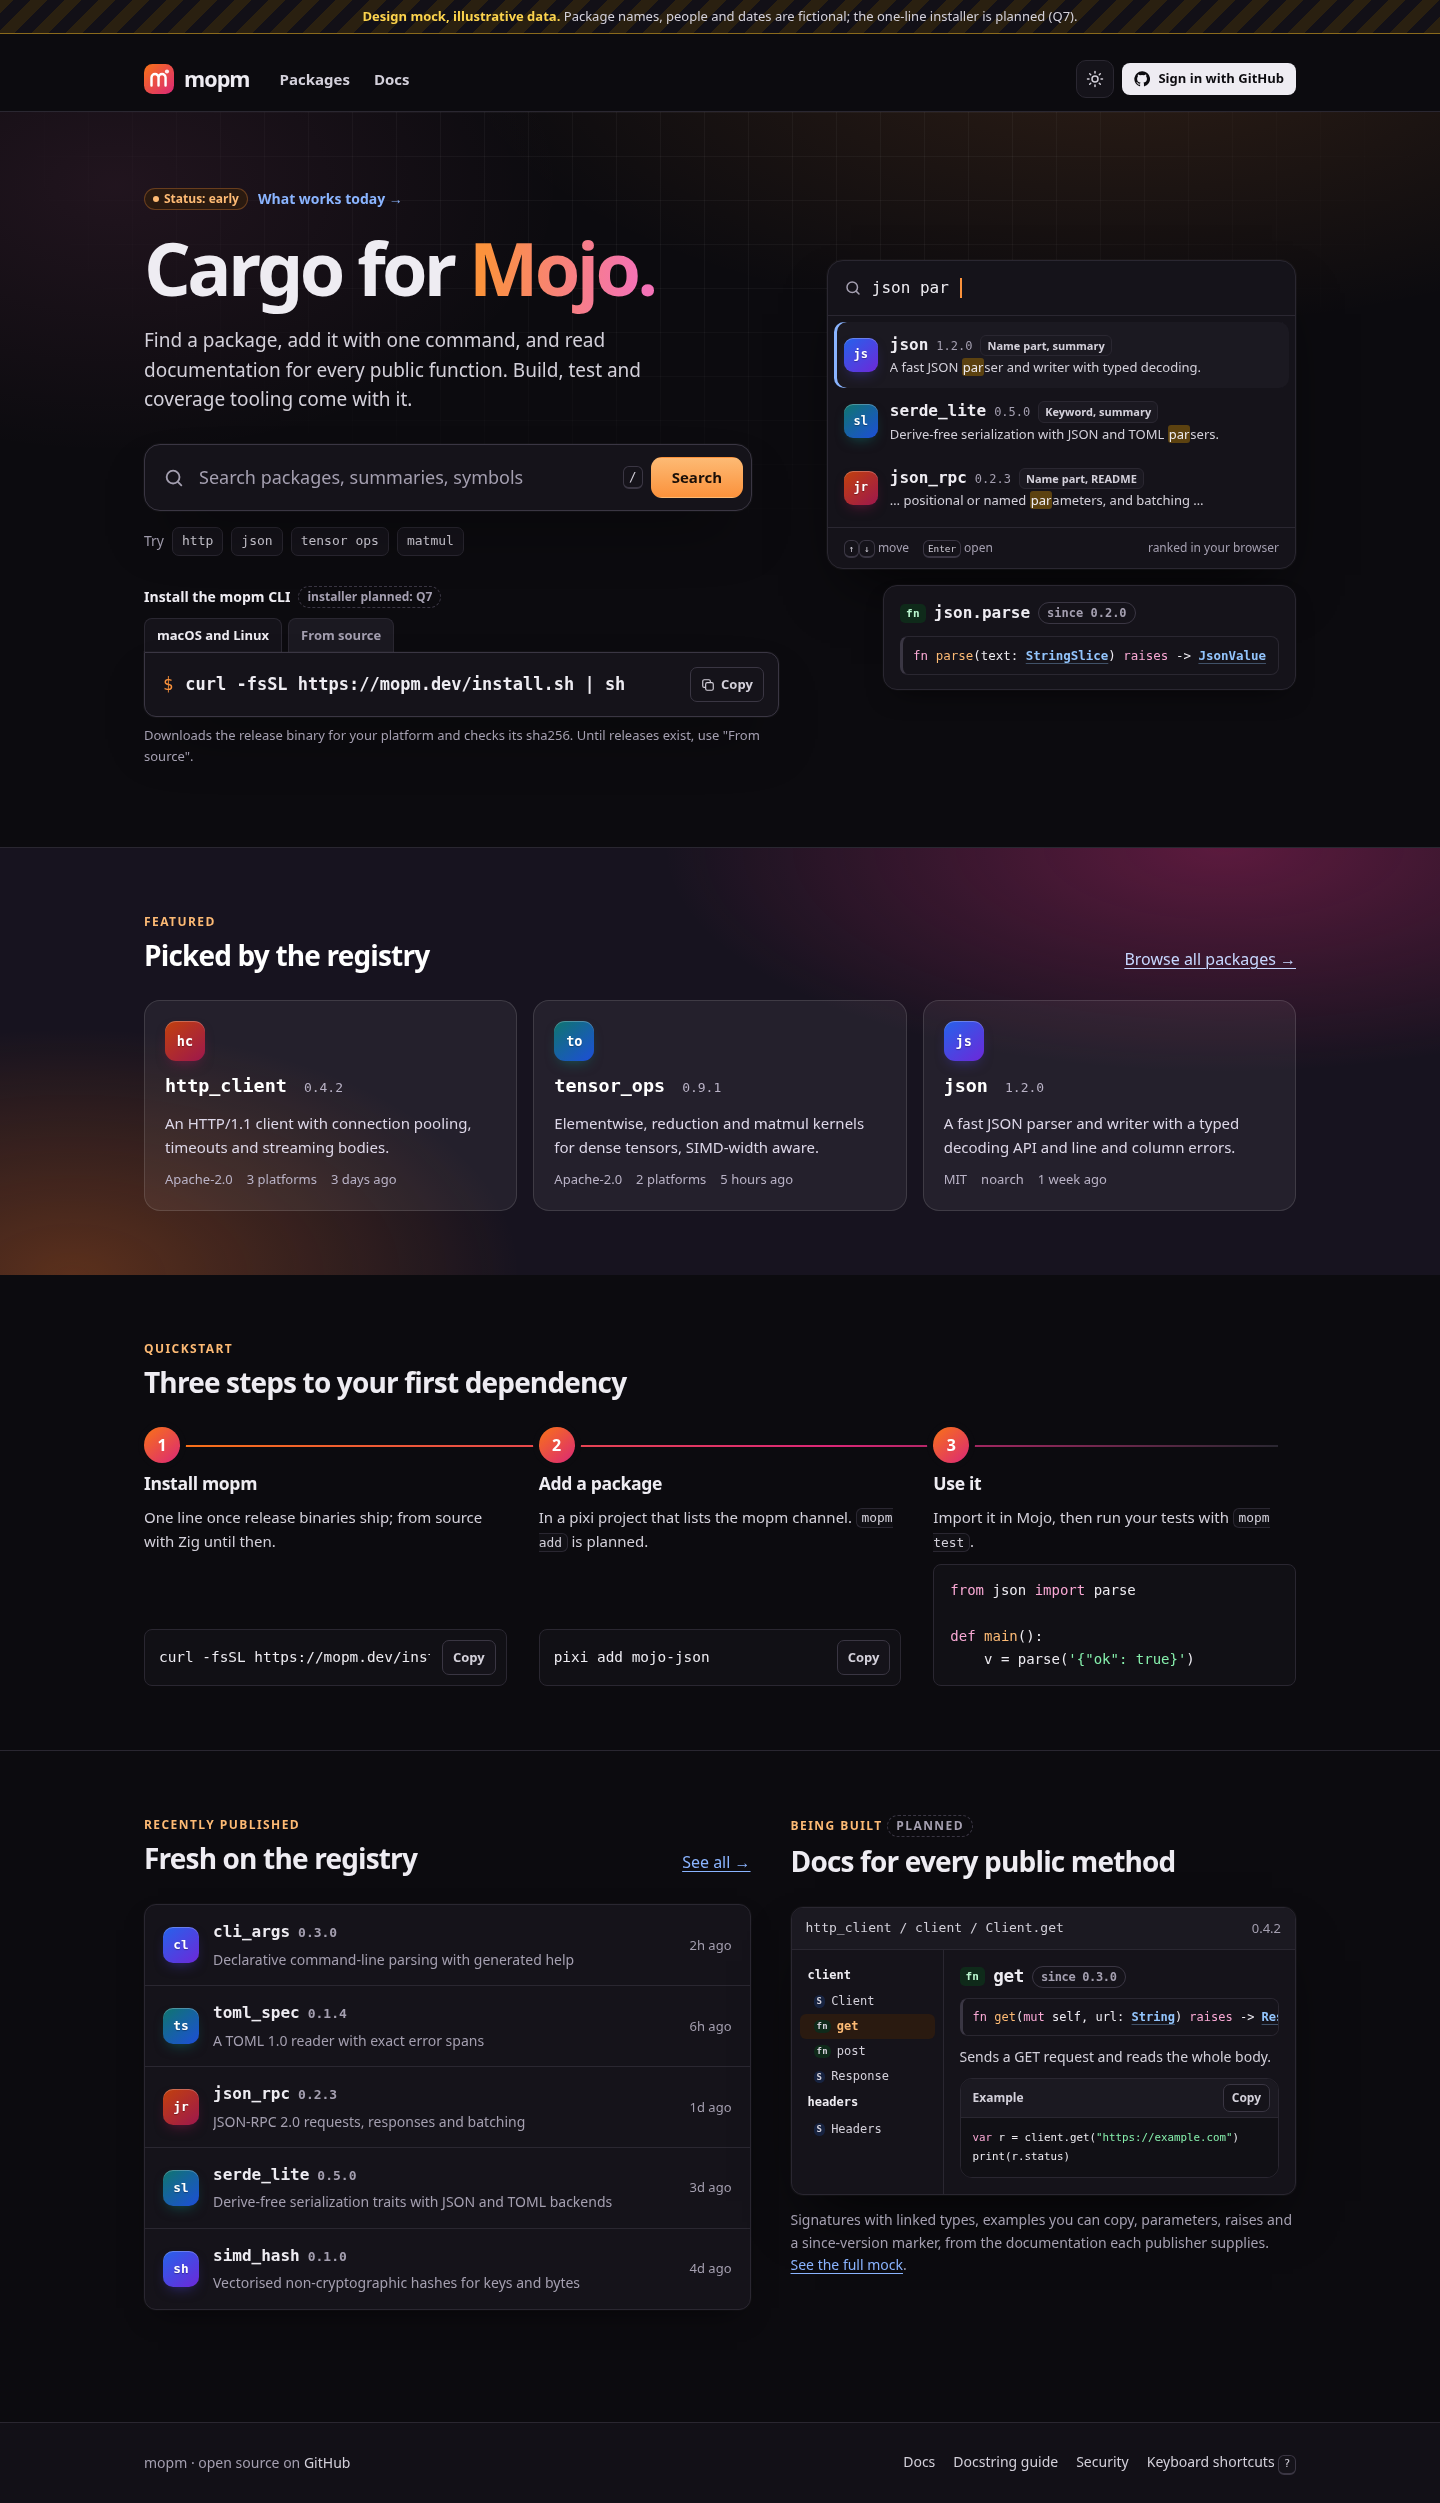
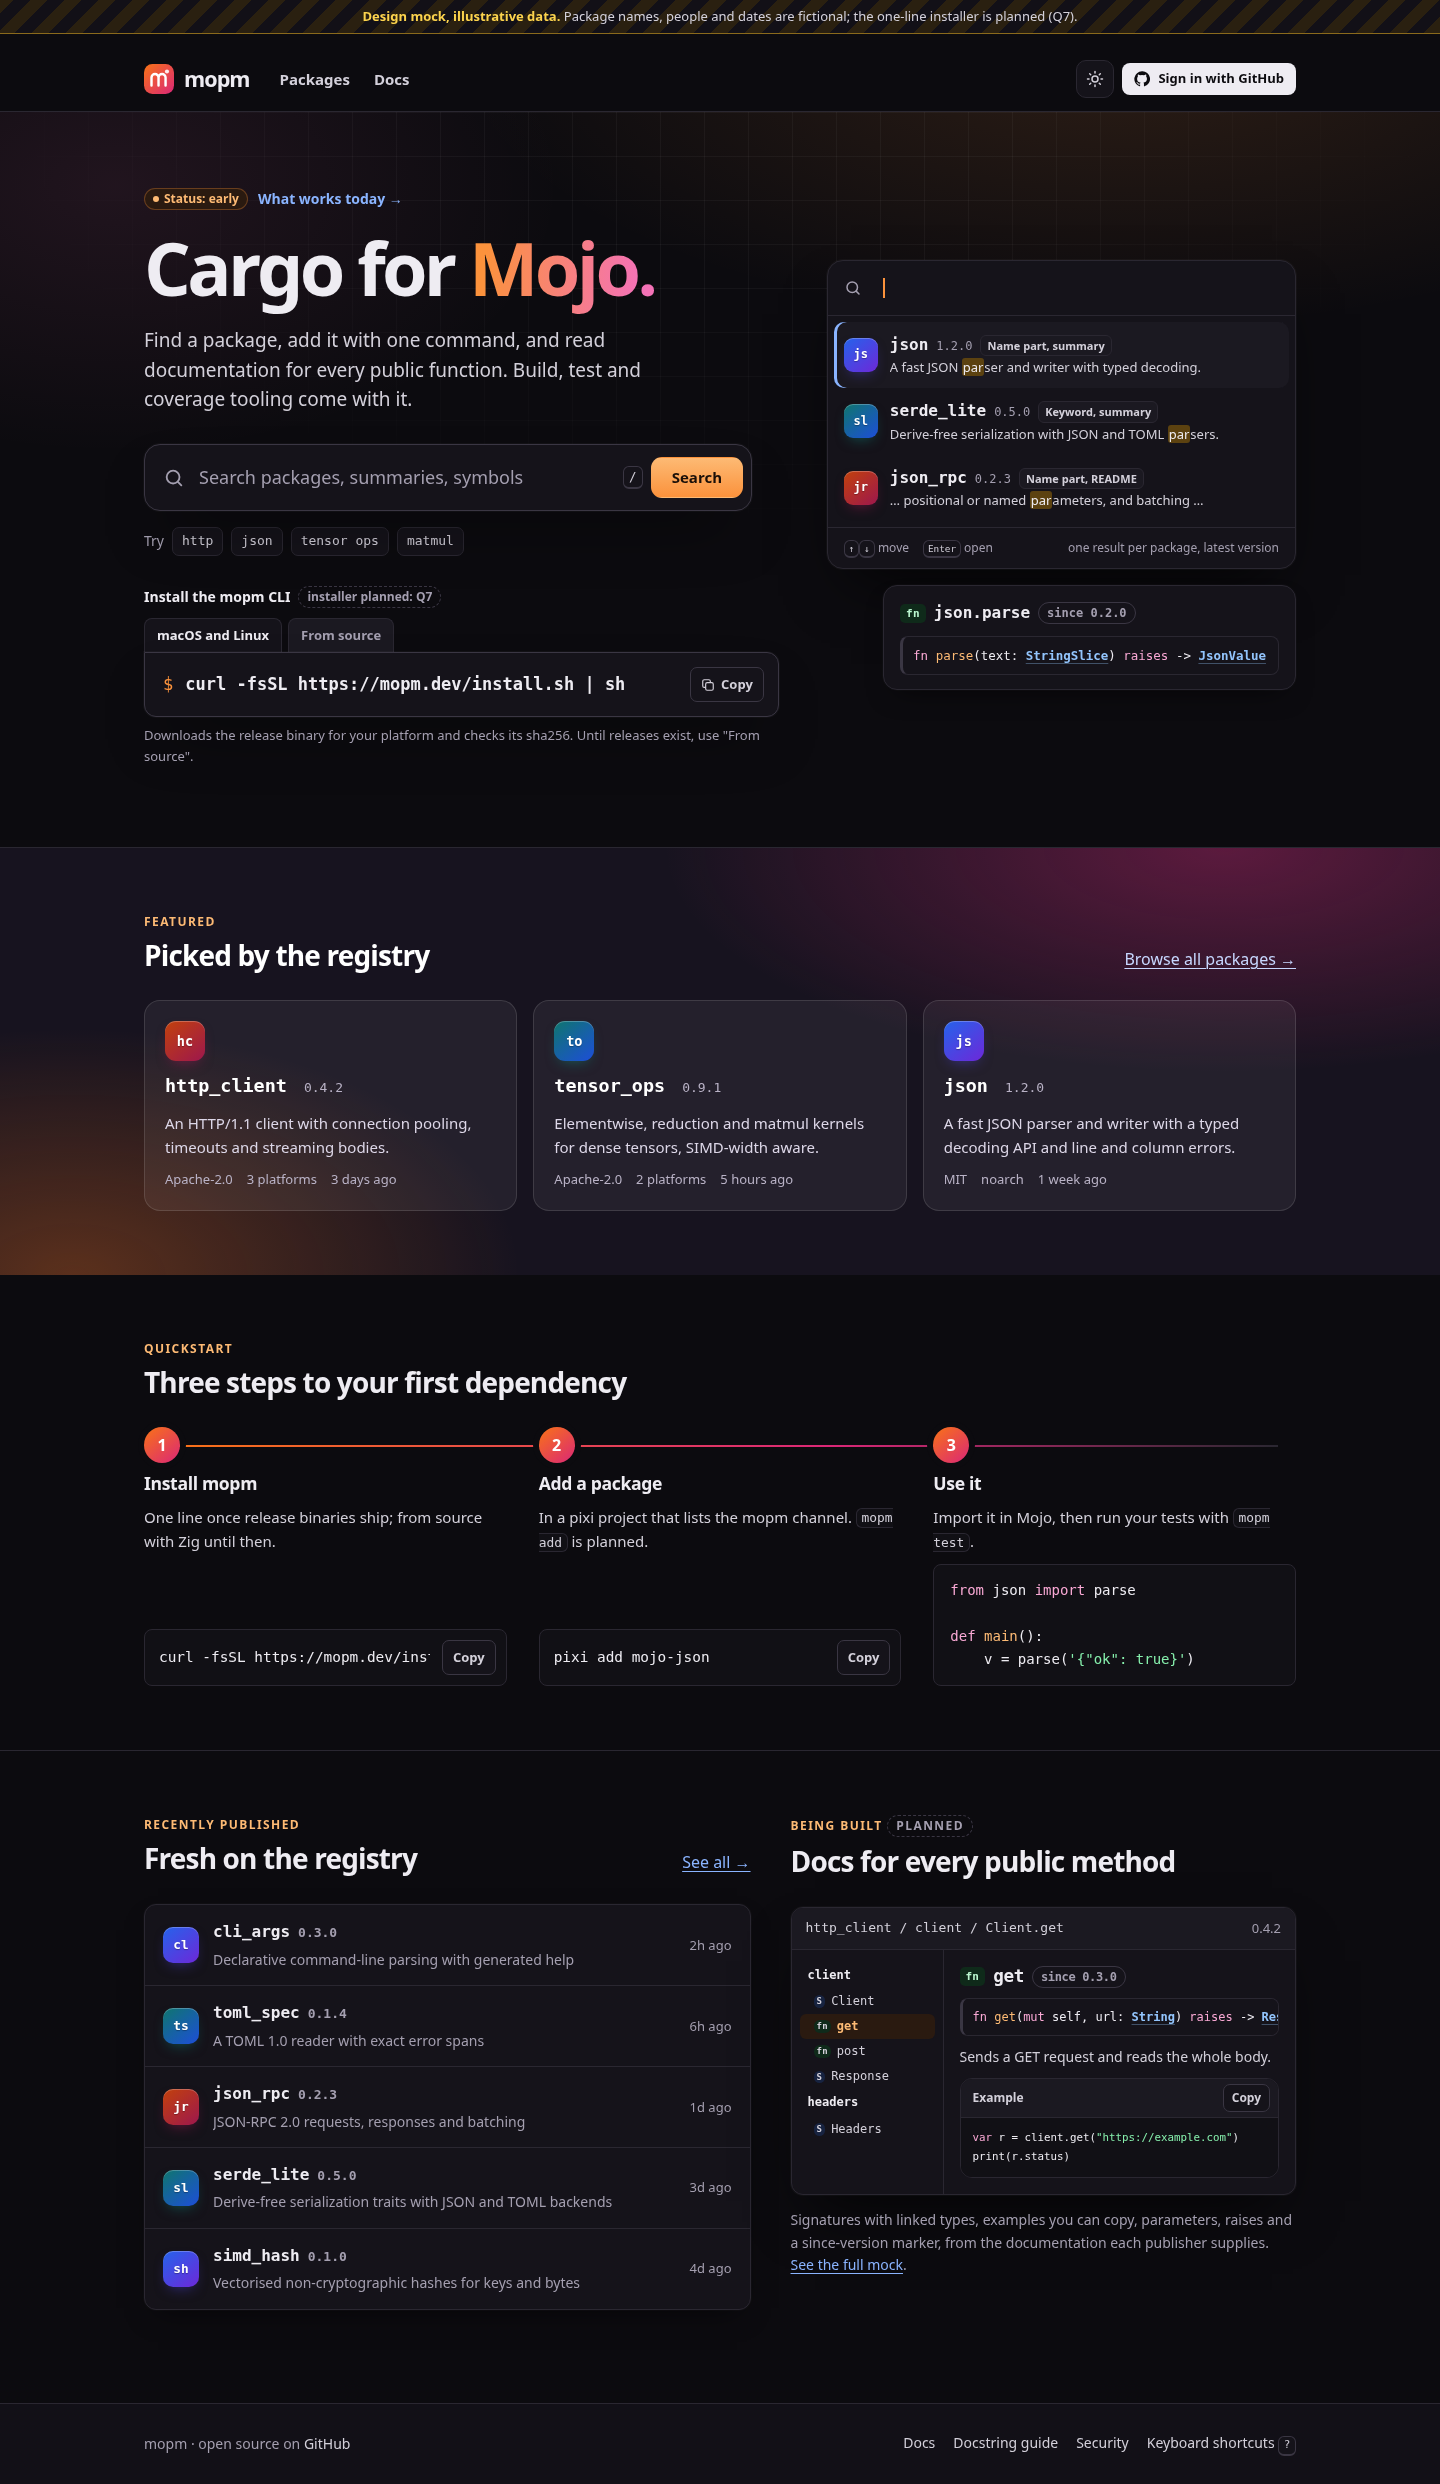
docs/design/mock: the landing search preview says one result per package at its latest version, not ranked in the browser

diff --git a/docs/design/mock/index-dark.html b/docs/design/mock/index-dark.html
@@ -111,7 +111,7 @@
               <div class="sp-sum">&hellip; positional or named <mark>par</mark>ameters, and batching &hellip;</div></div>
             </li>
           </ol>
-          <div class="sp-foot"><span><kbd>&uarr;</kbd><kbd>&darr;</kbd> move</span><span><kbd>Enter</kbd> open</span><span>ranked in your browser</span></div>
+          <div class="sp-foot"><span><kbd>&uarr;</kbd><kbd>&darr;</kbd> move</span><span><kbd>Enter</kbd> open</span><span>one result per package, latest version</span></div>
         </div>
         <div class="sp-api">
           <div class="sp-api-head"><span class="kind kind-fn">fn</span><b>json.parse</b><span class="tag tag-since">since 0.2.0</span></div>

diff --git a/docs/design/mock/index.html b/docs/design/mock/index.html
@@ -111,7 +111,7 @@
               <div class="sp-sum">&hellip; positional or named <mark>par</mark>ameters, and batching &hellip;</div></div>
             </li>
           </ol>
-          <div class="sp-foot"><span><kbd>&uarr;</kbd><kbd>&darr;</kbd> move</span><span><kbd>Enter</kbd> open</span><span>ranked in your browser</span></div>
+          <div class="sp-foot"><span><kbd>&uarr;</kbd><kbd>&darr;</kbd> move</span><span><kbd>Enter</kbd> open</span><span>one result per package, latest version</span></div>
         </div>
         <div class="sp-api">
           <div class="sp-api-head"><span class="kind kind-fn">fn</span><b>json.parse</b><span class="tag tag-since">since 0.2.0</span></div>
